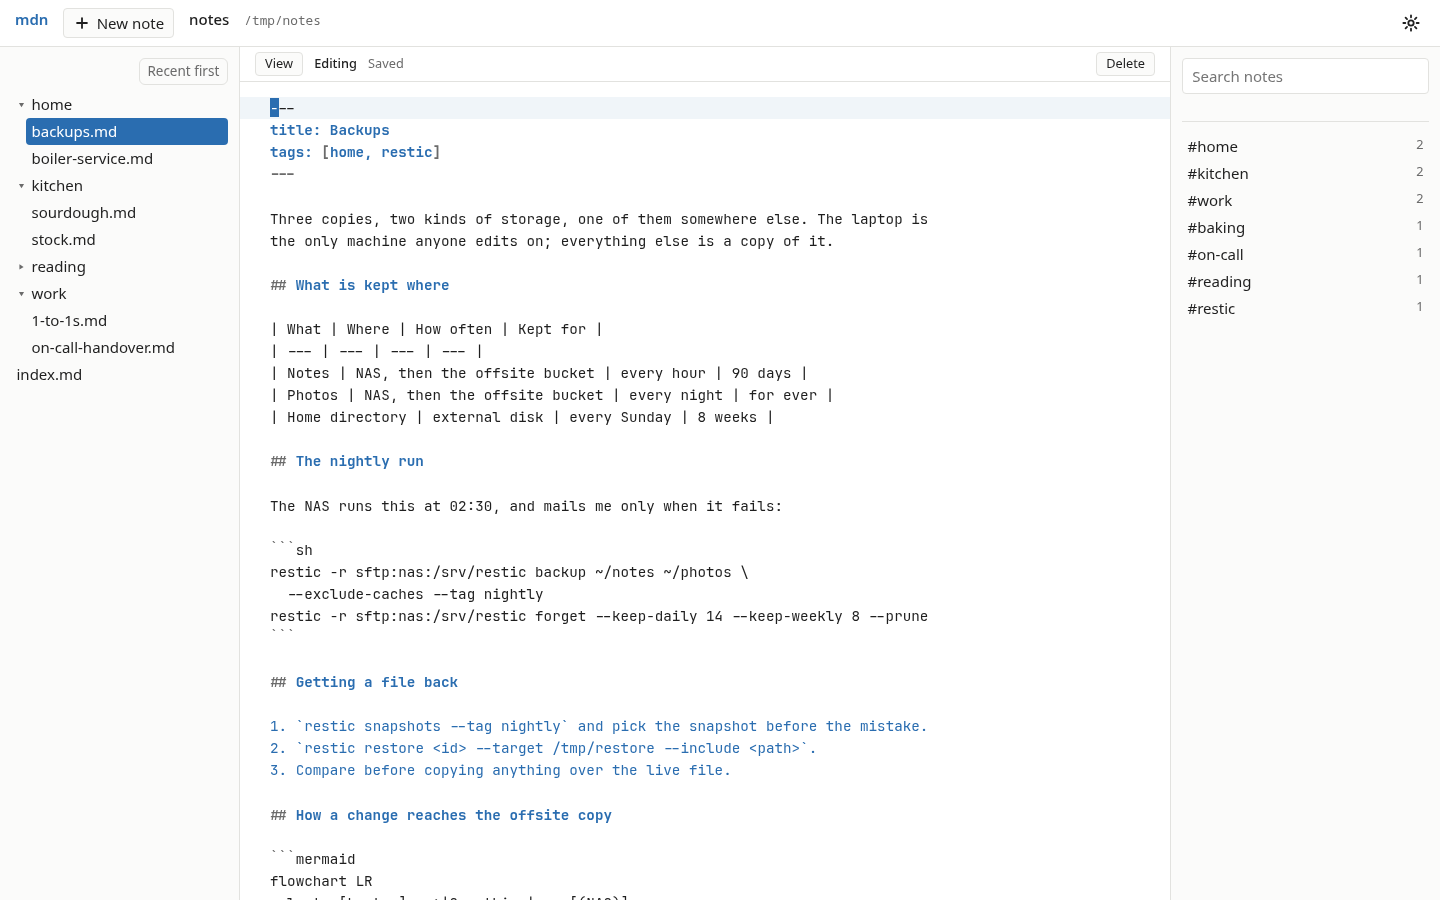
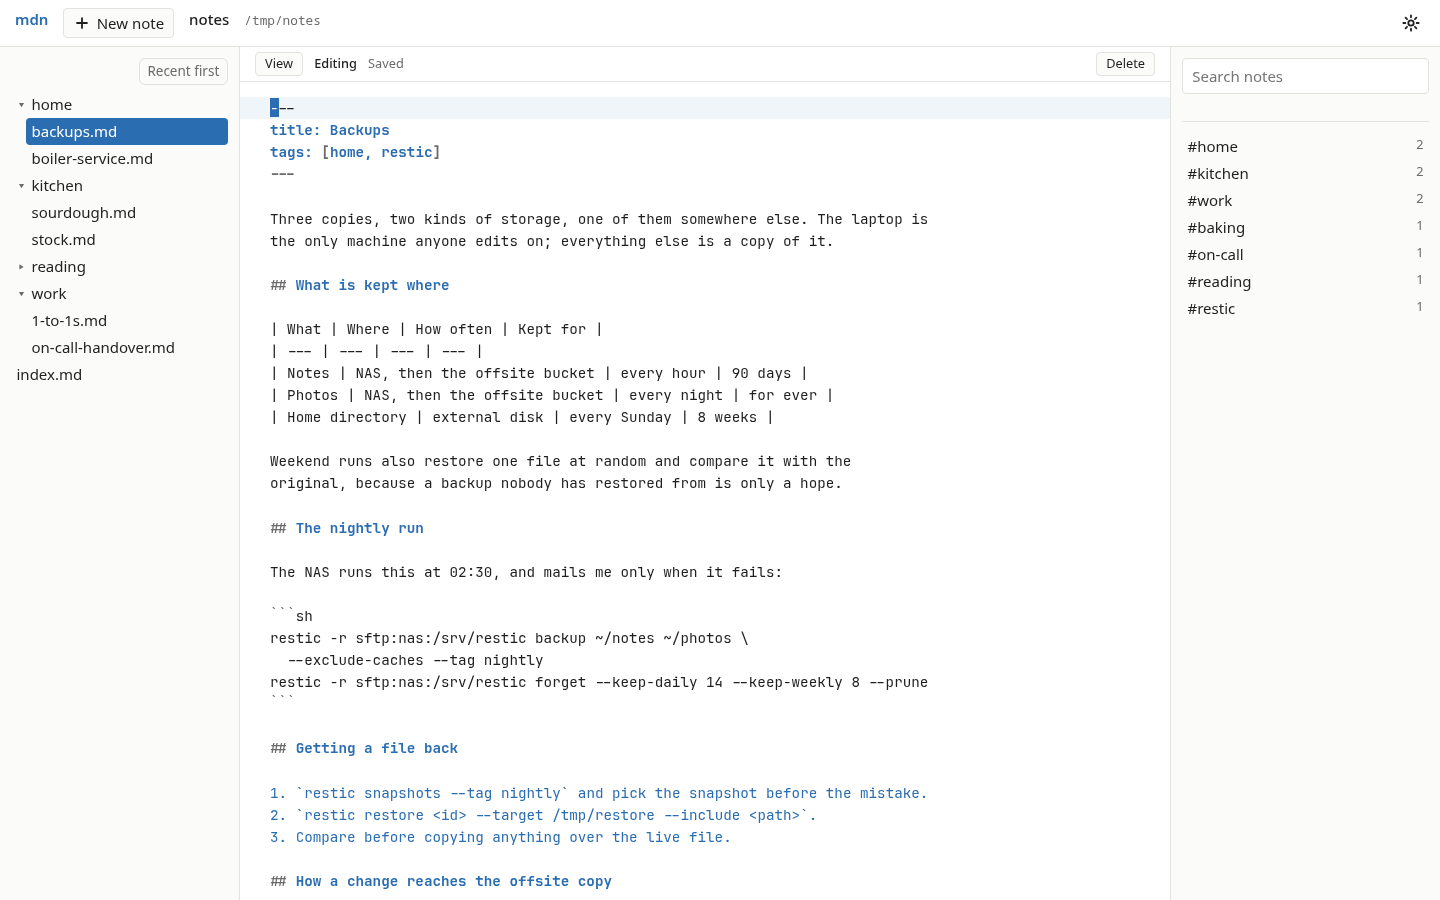
docs(readme): a cross-note search in the wide shot, and two exact claims (#194)
The demo notes gain a line of prose starting "Weekend" in three notes, and
the wide shot searches for it, so the pane shows search finding a word
across notes rather than frontmatter and code from one. All shots are
regenerated with the new notes and squeezed with oxipng.

The README now says .gitignore is honoured in a git repository, which is
when ripgrep reads it, and that the Android install is over the tailnet.

diff --git a/README.md b/README.md
@@ -8,7 +8,7 @@ as a code project's docs.
 
 <picture>
   <source media="(prefers-color-scheme: dark)" srcset="docs/images/app/wide-dark.png">
-  <img src="docs/images/app/wide-light.png" alt="md-notes in a wide window: the navigator on the left with folders of notes, a note about backups in the middle with a table and a shell code block, and a search for 'restic' on the right listing the matching lines.">
+  <img src="docs/images/app/wide-light.png" alt="md-notes in a wide window: the navigator on the left with folders of notes, a note about backups in the middle with a table and a shell code block, and a search for 'weekend' on the right finding it in three notes.">
 </picture>
 
 ## Why you might want it
@@ -27,7 +27,8 @@ as a code project's docs.
 
 - **Renders notes properly**: headings, tables, task lists, footnotes and
   highlighted code, in a light or dark theme that follows your system. The
-  navigator lists only markdown, and leaves out whatever your `.gitignore` does.
+  navigator lists only markdown, leaves out hidden files, and in a git
+  repository leaves out whatever `.gitignore` does.
 - **Flips to a capable editor with one key.** `Ctrl+E` turns the rendered note
   into a CodeMirror editor with vim keybindings, and back.
 - **Saves as you type, and keeps up with other tools.** Every edit is saved
@@ -43,8 +44,8 @@ as a code project's docs.
 - **Opens any folder.** `mdn open ~/projects/some-repo` browses a project's
   markdown the same way, without making it part of your notes.
 - **Works on a phone and an e-ink tablet.** The layout gives the note the whole
-  screen on a small one, installs as an app on Android, and has settings for a
-  panel with no backlight.
+  screen on a small one, installs as an app on Android over your tailnet, and has
+  settings for a panel with no backlight.
 
 <picture>
   <source media="(prefers-color-scheme: dark)" srcset="docs/images/app/editor-dark.png">

diff --git a/ui/scripts/demo-notes/home/backups.md b/ui/scripts/demo-notes/home/backups.md
@@ -14,6 +14,9 @@ the only machine anyone edits on; everything else is a copy of it.
 | Photos | NAS, then the offsite bucket | every night | for ever |
 | Home directory | external disk | every Sunday | 8 weeks |
 
+Weekend runs also restore one file at random and compare it with the
+original, because a backup nobody has restored from is only a hope.
+
 ## The nightly run
 
 The NAS runs this at 02:30, and mails me only when it fails:
@@ -39,5 +42,3 @@ flowchart LR
   snap -->|nightly| bucket[(Offsite)]
   nas -.->|weekly| verify{Restore test?}
 ```
-
-A restore test that has not been run is a hope, not a backup. #restic

diff --git a/ui/scripts/demo-notes/work/on-call-handover.md b/ui/scripts/demo-notes/work/on-call-handover.md
@@ -6,8 +6,11 @@ tags: [work, on-call]
 Before handing over the pager on Monday morning:
 
 1. Close or re-home every incident still open in the tracker.
-2. Check the backup job ran on every database over the weekend.
+2. Check the backup job ran on every database.
 3. Write down anything that paged twice, even if it fixed itself.
+
+Weekend pages count too, even the ones that cleared on their own: the
+next person will meet them again on a Tuesday afternoon.
 
 ## Checking the database backups
 

diff --git a/ui/scripts/demo-notes/kitchen/sourdough.md b/ui/scripts/demo-notes/kitchen/sourdough.md
@@ -25,6 +25,8 @@ for a kitchen at about 21 °C.
 
 ## Day two
 
+Weekend bakes suit this best: mix on Saturday, bake on Sunday morning.
+
 Bake from cold in a lidded pot: 20 minutes at 250 °C with the lid on, then
 25 minutes at 230 °C without it. Leave it an hour before cutting, however good
 it smells.
